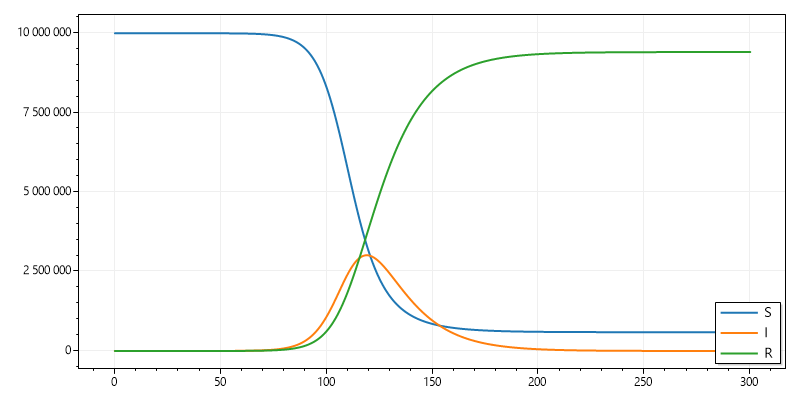
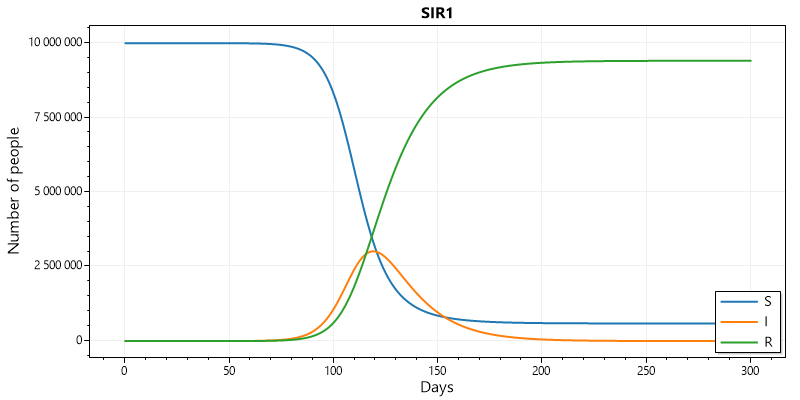
Switched to asynchro, made better json IO, cleared stuff

diff --git a/Project/Program.cs b/Project/Program.cs
@@ -5,25 +5,20 @@ using Project.Plotting;
 using Project.Simulators;
 using System.Text.Json;
 using System.IO;
+using System.Threading.Tasks;
 
 namespace Project
 {
     class Program
     {
-        static void Main(string[] args)
+        static async Task Main(string[] args)
         {
-            var sirModel = new SirModel(1);
-            sirModel.SusceptibleInit = 9999999;
-            sirModel.InfectedInit = 1;
-            sirModel.RemovedInit = 0;
-            sirModel.R0 = 3;
-            sirModel.PopulationSize = 10000000;
-            sirModel.TimeInfection = 14;
-            int time = 300;
+            var sirModel = await ModelLoader.LoadJson("file.json");
 
             var simulator = new SirSimulator();
             simulator.Model = sirModel;
-            var resultCurves = simulator.Simulate(time, 0.1);
+            var time = 300;
+            var resultCurves = await simulator.SimulateAsync(time, 0.1);
             var curveLabels = new string[] { "S", "I", "R" };
 
             var plotCreator = new PlotCreator(800, 400);
@@ -31,10 +26,8 @@ namespace Project
             {
                 plotCreator.AddCurve(resultCurves[0], resultCurves[i], curveLabels[i - 1]);
             }
-            plotCreator.CreatePicture(Constants.DataFolderPath + "picture.png");
-
-
-            await JsonModelSerializer("file.json");
+            plotCreator.CreatePicture(Constants.DataFolderPath + "picture.png", 
+                                      sirModel.Type.ToString() + sirModel.ID.ToString());
         }
     }
 }

diff --git a/Project/FileHandling/JsonSerialization.cs b/Project/FileHandling/JsonSerialization.cs
@@ -7,9 +7,9 @@ using System.Text;
 using System.Text.Json;
 using System.Threading.Tasks;
 
-namespace Project.FIleHandling
+namespace Project.FileHandling
 {
-    public static class JsonModelSerializer
+    public static class JsonSerialization
     {
         public static async Task SerializeModel(SirModel sirModel, string fileName)
         {
@@ -21,6 +21,15 @@ namespace Project.FIleHandling
 
             using FileStream createStream = File.Create(jsonFileName);
             await JsonSerializer.SerializeAsync(createStream, sirModel, options: options);
+        }
+
+        public static async Task<SirModel> DeserializeModel(string fileName)
+        {
+            string jsonFileName = Constants.DataFolderPath + fileName;
+            using FileStream openStream = File.OpenRead(jsonFileName);
+
+            var sirModel = await JsonSerializer.DeserializeAsync<SirModel>(openStream);
+            return sirModel;
         }
     }
 }

diff --git a/Project/Plotting/PlotCreator.cs b/Project/Plotting/PlotCreator.cs
@@ -1,9 +1,4 @@
-using System;
-using System.Collections.Generic;
-using System.Linq;
-using System.Text;
-using System.Threading.Tasks;
-
+
 namespace Project.Plotting
 {
     /* Creates the file for picture and some basics of graph like axes.. */
@@ -20,9 +15,12 @@ namespace Project.Plotting
             plot.PlotScatter(xPoints, yPoints, label: curveLabel, lineWidth: 2, markerSize: 0);
         }
 
-        public void CreatePicture(string filePath)
+        public void CreatePicture(string filePath, string title)
         {
             plot.Legend();
+            plot.Title(title);
+            plot.YLabel("Number of people");
+            plot.XLabel("Days");
             plot.SaveFig(filePath);
         }
 

diff --git a/Project/Simulators/SirSimulator.cs b/Project/Simulators/SirSimulator.cs
@@ -1,7 +1,4 @@
-using System;
-using System.Collections.Generic;
-using System.Linq;
-using System.Text;
+using System.Collections.Generic;
 using System.Threading.Tasks;
 using Project.Models;
 
@@ -43,5 +40,13 @@ namespace Project.Simulators
             }
             return new List<double[]> { xVal, S, I, R };
         }
+
+        /* Async wrapper for above method */
+        public async Task<List<double[]>> SimulateAsync(int time_period, double scale)
+        {
+            var resultList = await Task.Run(() => Simulate(time_period, scale));
+            return resultList;
+        }
+
     }
 }

diff --git a/Project/FileHandling/ModelSaver.cs b/Project/FileHandling/ModelSaver.cs
@@ -1,0 +1,18 @@
+using Project.Models;
+using System;
+using System.Collections.Generic;
+using System.Linq;
+using System.Text;
+using System.Threading.Tasks;
+
+namespace Project.FileHandling
+{
+    /* Class that will be used to save (convert) models in different formats */
+    public class ModelSaver
+    {
+        public static Task SaveJson(SirModel model, string fileName)
+            // we do not want to switch threads here, that is job of the caller
+            => JsonSerialization.SerializeModel(model, fileName);
+
+    }
+}

diff --git a/Project/Models/SirModel.cs b/Project/Models/SirModel.cs
@@ -1,9 +1,4 @@
-using System;
-using System.Collections.Generic;
-using System.Linq;
-using System.Text;
-using System.Threading.Tasks;
-
+
 namespace Project.Models
 {
     public class SirModel : BaseModel
@@ -12,6 +7,7 @@ namespace Project.Models
         public int InfectedInit { get; set; }
         public int RemovedInit { get; set; }
 
+        public SirModel() { }
         public SirModel(int id_num) 
         {
             Type = ModelType.SIR;

diff --git a/Project/Simulators/ISimulator.cs b/Project/Simulators/ISimulator.cs
@@ -1,7 +1,4 @@
-using System;
-using System.Collections.Generic;
-using System.Linq;
-using System.Text;
+using System.Collections.Generic;
 using System.Threading.Tasks;
 
 namespace Project.Simulators
@@ -9,5 +6,7 @@ namespace Project.Simulators
     public interface ISimulator
     {
         public List<double[]> Simulate(int time_period, double scale);
+
+        public Task<List<double[]>> SimulateAsync(int time_period, double scale);
     }
 }

diff --git a/Project/FileHandling/ModelLoader.cs b/Project/FileHandling/ModelLoader.cs
@@ -1,0 +1,16 @@
+using Project.Models;
+using System;
+using System.Collections.Generic;
+using System.Linq;
+using System.Text;
+using System.Threading.Tasks;
+
+namespace Project.FileHandling
+{
+    public class ModelLoader
+    {
+        public static Task<SirModel> LoadJson(string fileName)
+            // we do not want to switch threads here, that is job of the caller
+            => JsonSerialization.DeserializeModel(fileName);
+    }
+}

diff --git a/Project/Models/BaseModel.cs b/Project/Models/BaseModel.cs
@@ -1,9 +1,4 @@
-using System;
-using System.Collections.Generic;
-using System.Linq;
-using System.Text;
-using System.Text.Json.Serialization;
-using System.Threading.Tasks;
+using System.Text.Json.Serialization;
 
 namespace Project.Models
 {

diff --git a/Project/Models/ModelType.cs b/Project/Models/ModelType.cs
@@ -1,9 +1,4 @@
-using System;
-using System.Collections.Generic;
-using System.Linq;
-using System.Runtime.Serialization;
-using System.Text;
-using System.Threading.Tasks;
+using System.Runtime.Serialization;
 
 namespace Project.Models
 {

diff --git a/Project/Models/SirsModel.cs b/Project/Models/SirsModel.cs
@@ -1,9 +1,4 @@
-using System;
-using System.Collections.Generic;
-using System.Linq;
-using System.Text;
-using System.Threading.Tasks;
-
+
 namespace Project.Models
 {
     public class SirsModel : SirModel

diff --git a/Project/Constants.cs b/Project/Constants.cs
@@ -1,9 +1,4 @@
-using System;
-using System.Collections.Generic;
-using System.Linq;
-using System.Text;
-using System.Threading.Tasks;
-
+
 namespace Project
 {
     public class Constants
